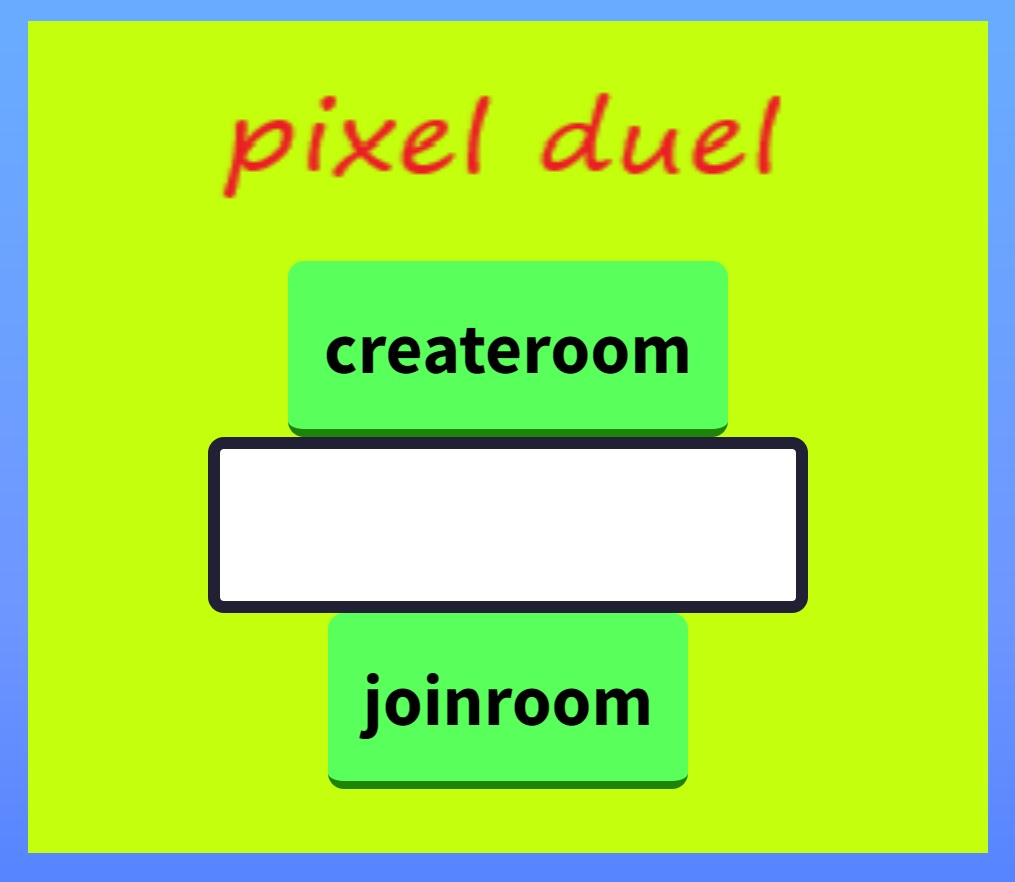
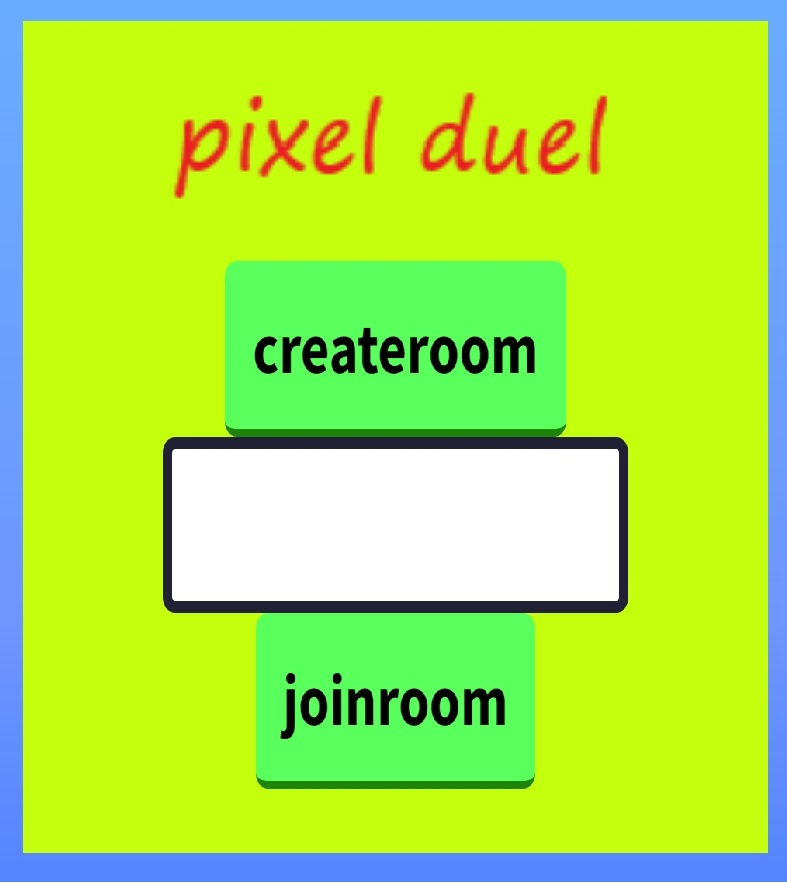
fix rwd again

diff --git a/assets/css/main.css b/assets/css/main.css
@@ -619,10 +619,14 @@
 		}
 
 		.image.left, .image.right{
+			width: auto;
+			height: auto;
+			
 			max-width: 40%;
 		}
 
 			.image.left img, .image.right img {
+				
 				width: 100%;
 				border-radius: 20px;
 			}
@@ -634,6 +638,11 @@
 			
 		}
 		.image.left.verycircle{
+			width: 30%;
+			height: auto;
+			min-width: 150px;
+			max-height: 350px;
+			max-width: 270px;
 			border-radius: 600px;
 			float: left;
 			padding: 1em 1.5em 1em 1em;
@@ -668,12 +677,14 @@
 			.image.main img {
 				width: 100%;
 			}
-		@media screen and (max-width: 736px) {
+		@media screen and (max-width: 850px) {
 
 			.image.left.verycircle{
 				
 				width: auto;
 				height: auto;
+				max-width: 150px;
+				max-height: 200px;
 			}
 			.image.md{
 				width: auto;

diff --git a/index.html b/index.html
@@ -153,7 +153,7 @@
 											<br><br><br>
 											<hr>
 											設計流程:遊戲開始後會loop檢查firebase上的資料是否更新，並且根據得到的資料渲染在html上，當輸入指令後資料會更新到firebase，再重新進入loop檢查渲染，當取得到的資料有一方HP為0後渲染出勝負字條跳回主頁。<br>
-											<img class="image left md" src="images/img3.jpg" alt="" width="260" height="350" >
+											<img class="image left md" src="images/img3.jpg" alt="" width="220" height="350" >
 											<img class="image left md" src="images/img4.jpg" alt="" width="420" height="280">
 											<img class="image left md" src="images/img5.jpg" alt="" width="420" height="280">
 										</p>
